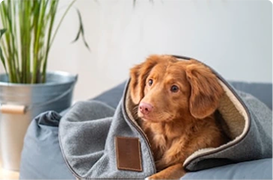
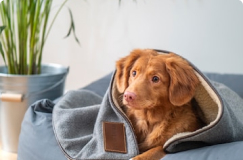
6-10

diff --git a/index.html b/index.html
@@ -89,23 +89,23 @@
         <h1 class="h1s">Você Pode Ajudar ...</h1>
         <ul class="ul-cards">
             <li class="li-cards"><a href="./Contato.html">
-                    <img src="assents/home/sessao1/adotar.webp"width="273" height="180" alt="adotar">
+                    <img src="assents/home/sessao1/adotar.webp"width="243" height="160" alt="img-adotar">
                     <h1 class="h3s">Adotar</h1>
                 </a></li>
             <li class="li-cards"><a href="./Contato.html">
-                    <img src="assents/home/sessao1/lar-temporario.webp" width="273" height="180" alt="Lar Temporário">
+                    <img src="assents/home/sessao1/lar-temporario.webp" width="243" height="160" alt="img-Lar-Temporário">
                     <h1 class="h3s"> Lar Temporário</h1>
                 </a></li>
             <li class="li-cards"><a href="./doacao-dinheiro.html">
-                    <img src="assents/home/sessao1/doar-dindin.webp" width="273" height="180" alt="Doar Dinheiro">
+                    <img src="assents/home/sessao1/doar-dindin.webp" width="243" height="160" alt="img-Doar-Dinheiro">
                     <h1 class="h3s">Doar Dinheiro</h1>
                 </a></li>
             <li class="li-cards"><a href="./Contato.html">
-                    <img src="assents/home/sessao1/doar-produtos.webp" width="273" height="180" alt="Doar Produtos">
+                    <img src="assents/home/sessao1/doar-produtos.webp"width="243" height="160" alt="img-Doar-Produtos">
                     <h1 class="h3s">Doar Produtos</h1>
                 </a></li>
             <li class="li-cards"><a href="./Contato.html">
-                    <img src="assents/home/sessao1/ser-voluntario.webp" width="273" height="180" alt="Ser voluntário">
+                    <img src="assents/home/sessao1/ser-voluntario.webp"width="243" height="160" alt="img-Ser-voluntário">
                     <h1 class="h3s">Ser Voluntário</h1>
                 </a></li>
         </ul>
@@ -142,7 +142,7 @@
 
     <section class="sessao-emergencia">
         <a href="https://www.instagram.com/p/CxoPvFivhy6/" target="_blank" rel="noopener noreferrer"> <img
-                class="animal-em" src="assents/home/sessao3/animal-emergencia.webp" width="400" max-height="50vh" alt="imagem emergência"></a>
+                class="animal-em" src="assents/home/sessao3/animal-emergencia.webp" width="400" height="400" alt="imagem emergência"></a>
         <div class="emergencia">
             <div>
                 <h1 class="h2s">Dependemos de vocês</h1><br>
@@ -204,74 +204,74 @@
                     <p class="h5s">Saber Mais</p>
                 </button></a>
         </div>
-        <img class="img-evento" src="assents/home/sessao5/evento-img.webp" width="300" max-height="300" alt="rifa">
+        <img class="img-evento" src="assents/home/sessao5/evento-img.webp" width="300" height="300" alt="rifa">
     </section>
 
     <footer class="footer">
         <ul class="ul-menu-2">
             <li class="li-menu-2"><a href="./index.html">
-                    <h4 class="h4s">Home</h4>
+                    <h1 class="h4s">Home</h1>
                 </a></li>
             <li class="li-menu-2"><a href="./Quem-Somos.html">
-                    <h4 class="h4s">Quem somos</h4>
+                    <h1 class="h4s">Quem somos</h1>
                 </a></li>
             <li class="li-menu-2"><a href="./Nosso-Rancho.html">
-                    <h4 class="h4s">Nosso Rancho</h4>
+                    <h1 class="h4s">Nosso Rancho</h1>
                 </a></li>
             <li class="li-menu-2"><a href="./Contato.html">
-                    <h4 class="h4s">Contato</h4>
+                    <h1 class="h4s">Contato</h1>
                 </a></li>
             <li class="li-menu-2"><a href="./lgpd.html">
-                    <h4 class="h4s">Política Privacidade</h4>
+                    <h1 class="h4s">Política Privacidade</h1>
                 </a></li>
             <li class="li-menu-2"> <a href="./doacao-dinheiro.html"><button class="bnt-top">
-                        <h4 class="h4s">Doar Agora</h4>
+                        <h1 class="h4s">Doar Agora</h1>
                     </button></a></li>
                     <li class="li-menu-2">
                         <a target="_blank" href="https://julianobresolinux.vercel.app/">
-                            <h6>UX-UI Desinger / Frontend : <p>Juliano Bresolin</p> </h6>
+                            <h1 class="h5s">UX-UI Desinger / Frontend : <p>Juliano Bresolin</p> </h1>
                         </a>
                     </li>
         </ul>
         <ul class="ul-menu-2-contato">
-            <li><h3 class="h3s">Contato whatsapp</h3></li>
+            <li><h1 class="h3s">Contato whatsapp</h1></li>
             <li class="li-menu-2-contato">
                 
                 <a target="_blank" href="http://wa.me/554196862884">
                     <img src="assents/home/rodape/wts.svg" width="18" height="18"  alt="icone-wts">
-                    <h4>+55 (41) 9686-2884</h4>
+                    <h1 class="h4s">+55 (41) 9686-2884</h1>
                 </a></li>
             <li class="li-menu-2-contato"><a target="_blank" href="http://wa.me/554197779779">
                     <img src="assents/home/rodape/wts.svg" width="18" height="18"  alt="icone-wts">
-                    <h4>+55 (41) 9777-9779 </h4>
+                    <h1 class="h4s">+55 (41) 9777-9779 </h1>
                 </a></li>
             <li class="li-menu-2-contato">
                 <a target="_blank" href="http://wa.me/554198870463"><img src="assents/home/rodape/wts.svg"  width="18" height="18" alt="icone-wts">
-                    <h4>+55 (41) 9887-0463</h4>
+                    <h1 class="h4s">+55 (41) 9887-0463</h1>
                 </a>
             </li>
             
         </ul>
 
         <ul class="ul-menu-2-redes">
-            <li><h3 class="h3s">Redes Sociais</h3></li>
+            <li><h1 class="h3s">Redes Sociais</h1></li>
            
                 <li class="li-menu-2-redes">
                     <a target="_blank" href="https://www.facebook.com/grupoforcaanimal"><img
-                            src="assents/home/rodape/facebook.svg" max-width="40" height="40" alt="icone facebook">
-                        <h5 class="h5s">facebook</h5>
+                            src="assents/home/rodape/facebook.svg" width="40" height="40" alt="icone facebook">
+                        <h1 class="h5s">facebook</h1>
                     </a>
                 </li>
                 <li class="li-menu-2-redes">
                     <a target="_blank" href="https://www.instagram.com/associacaogfa/"><img
-                            src="assents/home/rodape/instagram.svg"  max-width="40" height="40" alt="icone instagram">
-                        <h5 class="h5s">Instagram</h5>
+                            src="assents/home/rodape/instagram.svg"  width="40" height="40" alt="icone instagram">
+                        <h1 class="h5s">Instagram</h1>
                     </a>
                 </li>
                 <li class="li-menu-2-redes">
                     <a target="_blank" href="https://www.youtube.com/channel/UCHoo3LwCX233dUZzxOFdSQQ"><img
-                            src="assents/home/rodape/youtube.svg" max-width="40" height="40" alt="icone youtube">
-                        <h5 class="h5s">Youtube</h5>
+                            src="assents/home/rodape/youtube.svg" width="40" height="40" alt="icone youtube">
+                        <h1 class="h5s">Youtube</h1>
                     </a>
                 </li>
                 

diff --git a/css/style-home.css b/css/style-home.css
@@ -354,6 +354,8 @@ a {
 
 .animal-em {
 	border-radius: 10px;
+	max-width: 100%;
+	height: auto;
 }
 
 .bnte {
@@ -467,6 +469,8 @@ a {
 
 .img-evento {
 	border-radius: 10px;
+	max-width: 100%;
+	height: auto;
 }
 
 .bntr {
